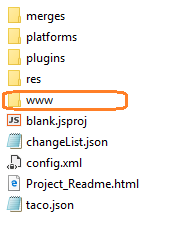
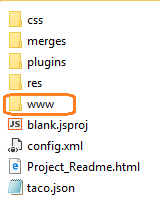
migration doc updates

Changed region(s): [[0.0, 0.0, 1.0, 0.9612]]

diff --git a/DPS_test/articles/getting-started/migrate-to-vs2015.md b/DPS_test/articles/getting-started/migrate-to-vs2015.md
@@ -33,11 +33,11 @@ The new project structure in Visual Studio 2015 makes Visual Studio much easier 
 ## Update your existing project
 1. Make a backup of your existing project (obligatory first step :))
 2. In Windows, open the folder where you created the Blank App project (which you named "blank" in the previous steps).
-3. Copy blank.jsproj and taco.json from this folder to your existing project folder.
+3. Copy `blank.jsproj` and `taco.json` from this folder to your existing project folder.
 
   ![Updating the project files](media/migrate-to-vs2015/adding-vs2015-project-files.png)
 
-4. Delete the older .jsproj file and, optionally, rename blank.jsproj to re-use the old name.
+4. Delete the older `.jsproj` file and, optionally, rename `blank.jsproj` to re-use the old name.
 
 5. In your older project, create a new folder named **www** in the same location as the `res` folder and `config.xml`.
 6. In your existing project, delete the following folders:
@@ -50,16 +50,18 @@ The new project structure in Visual Studio 2015 makes Visual Studio much easier 
 	 * config.xml
 8. Copy all other files and folders, including index.html, into the new `www` folder.
 
-  Here is an example of what your updated project structure should look like.
-
   ![Updated VS 2015 project](media/migrate-to-vs2015/vs-2015-project-structure.png)
 
-9. If you're using TypeScript, you'll need to add a tsconfig.json to your project folder and define config settings for your project. See the [Configuring TypeScript](../getting-started/tutorial-typescript.md) section for details.
-10. Open the .jsproj file in Visual Studio 2015.
+  > **Note** If you're using TypeScript, you'll need to add a tsconfig.json to your project folder and define config settings for your project. See the [Configuring TypeScript](../getting-started/tutorial-typescript.md) section for details.
+10. Open the ``.jsproj` file in Visual Studio 2015.
 
-  Now you can build and run your application by pressing F5 with the desired deployment target selected.
+  Here is what this example project looks like in Solution Explorer.
 
-  If you have errors, you may need to update file references to reflect the new folder structure.
+  ![Updated VS 2015 project](media/migrate-to-vs2015/solution-explorer.png)
+
+  Now you can build and run your application by pressing F5 with the desired platform and device selected.
+
+  > **Note** If you have errors, you may need to update file references to reflect the new folder structure.
 
 ## Update Configl.xml
 
@@ -152,6 +154,7 @@ Next, you need to make sure that your icons and splash screens are picked up cor
   </platform>
   ```
 
+  Now, icons and splash screens should load correctly when you run the app!
 
 
 ----------
